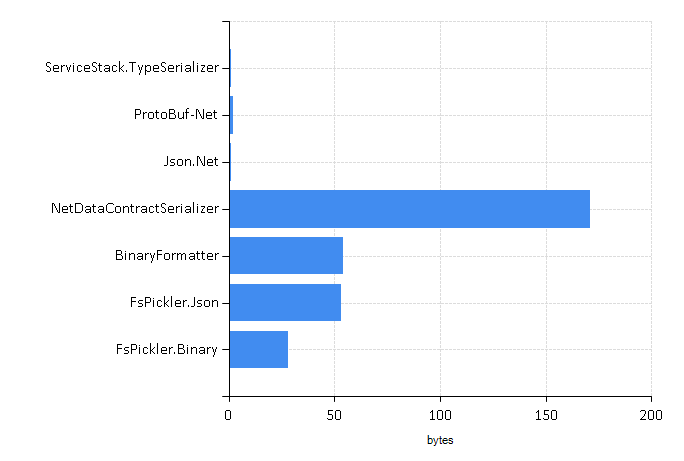
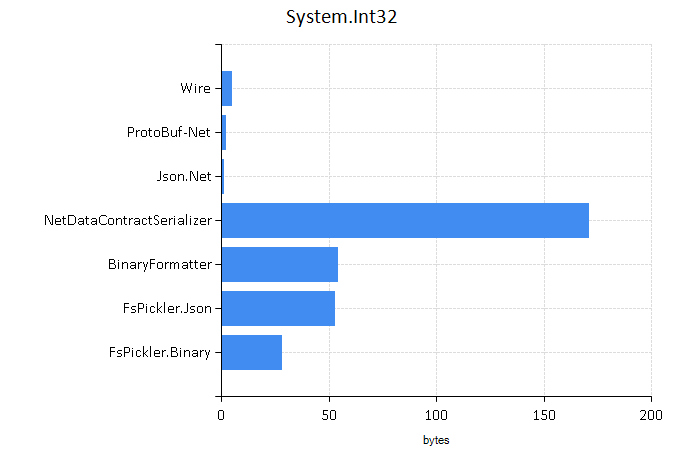
update benchmark code

diff --git a/docs/content/benchmarks.md b/docs/content/benchmarks.md
@@ -4,65 +4,95 @@ How does FsPickler compare against other .Net serialization libraries in terms o
 In this section we present a few microbenchmarks: we compared FsPickler against 
 [BinaryFormatter](http://msdn.microsoft.com/en-us/library/system.runtime.serialization.formatters.binary.binaryformatter.aspx), 
 [NetDataContractSerializer](http://msdn.microsoft.com/en-us/library/system.runtime.serialization.netdatacontractserializer.aspx), 
-[Json.Net](http://james.newtonking.com/json), [ServiceStack.Text](https://www.nuget.org/packages/ServiceStack.Text/4.0.15) and
-[ProtoBuf-Net](https://code.google.com/p/protobuf-net/). 
+[Json.Net 7.0](http://james.newtonking.com/json), [ProtoBuf-Net 2.0](https://code.google.com/p/protobuf-net/)
+and [Wire 0.0.5](https://www.nuget.org/packages/Wire).
 Code used to run the tests is available in the 
 [FsPickler.PerfTests](https://github.com/nessos/FsPickler/tree/master/tests/FsPickler.PerfTests) project.
+Benchmarks were run on an Intel Core i7-7200K CPU @ 3.50GHz with 16GB RAM.
+
+Last updated on October 12, 2015.
 
 ## Execution Time
 
-The first set of tests measures execution time.
+The first set of tests measures serialization roundtrip time and GC collections.
 Performance testing was done using the [PerfUtil](https://github.com/eiriktsarpalis/PerfUtil) library. 
 Libraries not appearing in charts failed to serialize the tested objects.
 Benchmarks are indicative and in no way scientific.
 
+### Simple POCO
+
+<img src="benchmarks/time/poco.png" />
+<img src="benchmarks/gc/poco.png" />
+
+### ISerializable Object
+
+<img src="benchmarks/time/iserializable.png" />
+<img src="benchmarks/gc/iserializable.png" />
+
+### DataContract Object
+
+<img src="benchmarks/time/datacontract.png" />
+<img src="benchmarks/gc/datacontract.png" />
+
 ### System.Tuple
 
-<img src="benchmarks/time/tuple.png" />
+<img src="benchmarks/time/tuple6.png" />
+<img src="benchmarks/gc/tuple6.png" />
+
+### Exception with Stacktrace
+
+<img src="benchmarks/time/exception.png" />
+<img src="benchmarks/gc/exception.png" />
 
 ### Array of Tuples
 
-<img src="benchmarks/time/tupleArray.png" />
+<img src="benchmarks/time/tuplearray.png" />
+<img src="benchmarks/gc/tuplearray.png" />
 
-### Simple Record Class
+### Array of System.Type
 
-<img src="benchmarks/time/class.png" />
-
-### ISerializable Class
-
-<img src="benchmarks/time/iserializable.png" />
+<img src="benchmarks/time/typearray.png" />
+<img src="benchmarks/gc/typearray.png" />
 
 ### Generic Dictionary
 
-<img src="benchmarks/time/dictionary.png" />
+<img src="benchmarks/time/dict.png" />
+<img src="benchmarks/gc/dict.png" />
 
 ### Binary Tree
 
-<img src="benchmarks/time/binaryTree.png" />
+<img src="benchmarks/time/tree.png" />
+<img src="benchmarks/gc/tree.png" />
 
 ### F# list of integers
 
-<img src="benchmarks/time/list.png" />
+<img src="benchmarks/time/intlist.png" />
+<img src="benchmarks/gc/intlist.png" />
 
 ### F# list of tuples
 
-<img src="benchmarks/time/pairList.png" />
+<img src="benchmarks/time/pairlist.png" />
+<img src="benchmarks/gc/pairlist.png" />
 
 ### 3D float Array (200 x 200 x 200)
 
-<img src="benchmarks/time/array3D.png" />
+<img src="benchmarks/time/3darray.png" />
+<img src="benchmarks/gc/3darray.png" />
 
 ### F# mutual recursive types
 
-<img src="benchmarks/time/fsharpForest.png" />
+<img src="benchmarks/time/fsmutual.png" />
+<img src="benchmarks/gc/fsmutual.png" />
 
 ### F# Quotation
 
 <img src="benchmarks/time/quotation.png" />
+<img src="benchmarks/gc/quotation.png" />
 
 ### Random object graph (n = 500, Pb = 20%)
 
-<img src="benchmarks/time/random.png" />
+<img src="benchmarks/time/graph.png" />
+<img src="benchmarks/gc/graph.png" />
 
 ## Serialization Size
 
@@ -87,7 +117,7 @@ Libraries not appearing in charts failed to serialize the tested objects.
 
 ### 3D float Array (100x100x100)
 
-<img src="benchmarks/size/array.png" />
+<img src="benchmarks/size/3darray.png" />
 
 ### F# List of Integers (1000 elements)
 
@@ -97,13 +127,13 @@ Libraries not appearing in charts failed to serialize the tested objects.
 
 <img src="benchmarks/size/pairlist.png" />
 
-### Record
+### Simple POCO
 
-<img src="benchmarks/size/record.png" />
+<img src="benchmarks/size/poco.png" />
 
-### Dictionary of Records (1000 entries)
+### Dictionary of POCOs (1000 entries)
 
-<img src="benchmarks/size/dictionary.png" />
+<img src="benchmarks/size/dict.png" />
 
 ### Exception (with stacktrace)
 
@@ -111,7 +141,7 @@ Libraries not appearing in charts failed to serialize the tested objects.
 
 ### Binary tree (balanced, depth = 10)
 
-<img src="benchmarks/size/bintree.png" />
+<img src="benchmarks/size/tree.png" />
 
 ### F# Quotation
 
